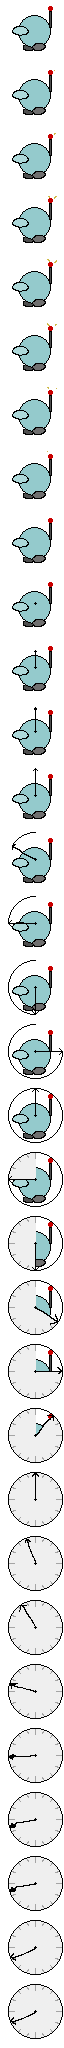
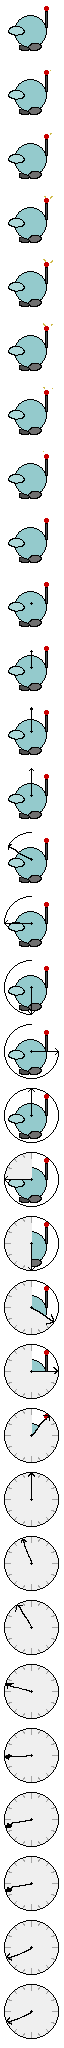
fix collisions

Changed region(s): [[0.0625, 0.0, 0.9688, 1.0]]

diff --git a/js/player.js b/js/player.js
@@ -182,12 +182,11 @@ export class Player {
                 this.onPlatform = null;
             }
         }
-
-        this.updateXPosition(dt, level);
-        
         this.checkAboveCollision(level);
         if (this.dead) return;
-        
+
+        this.updateXPosition(dt, level);
+                
         this.checkWallCollisions(level);
         if (this.dead) return;
 

diff --git a/js/game.js b/js/game.js
@@ -10,7 +10,7 @@ import { audio } from "./audio.js";
 
 const LOADING = 0, MENU = 5, IN_GAME = 10, GAME_OVER = 20, COMPLETED = 30, TIME_OUT = 40; 
 
-const START_LEVEL = 2;
+const START_LEVEL = 3;
 
 export class Game {
 
